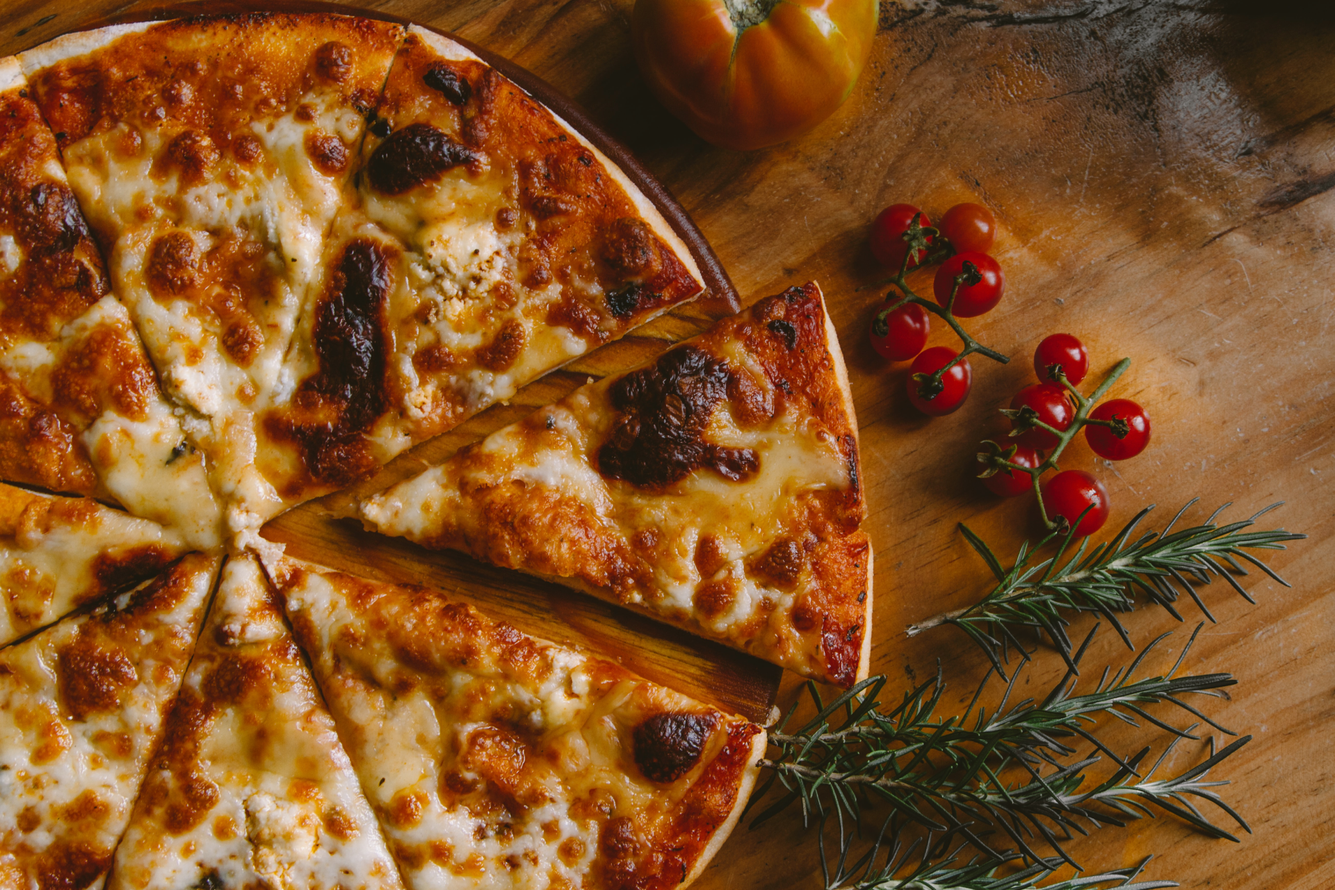
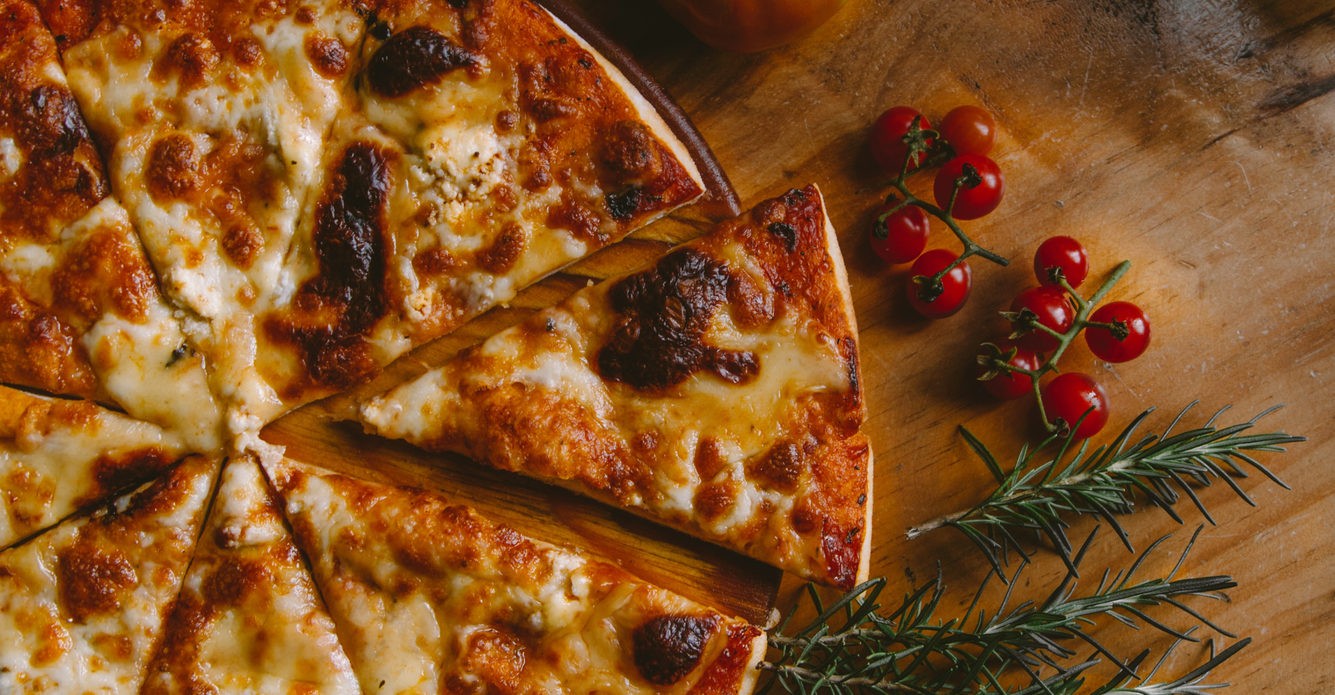
Edit hero image on desktop size

diff --git a/static/css/style.css b/static/css/style.css
@@ -238,6 +238,10 @@ li {
     width: 100%;
 }
 
+.bg-main__desktop {
+    display: none;
+}
+
 .subscribe {
     display: flex;
     flex-direction: column;
@@ -1210,5 +1214,27 @@ li {
     .navbar__link span {
         color: white !important;
     }
+
+    .bg-main {
+        display: none;
+    }
+
+    .bg-main__desktop {
+        display: block;
+        width: 100%;
+        height: calc(100vh - 60px);
+        background-size: cover;
+        background-position: center;
+    }
+
+    .subscribe {
+        top: -100px;
+    }
+
+    .order-now {
+        height: fit-content;
+        margin: auto;
+        position: absolute;
+        top: 0; left: 0; bottom: 0; right: 0;  }
 }
 

diff --git a/home/templates/home/index.html b/home/templates/home/index.html
@@ -2,6 +2,10 @@
 {% load static %}
 {% block content %}
     <img class="bg-main" src="{% static 'images/bg-main-mobile.webp' %}" alt="pizza on wooden table - top perspective">
+    <div class="bg-main__desktop" style="background-image: url(static/images/bg-main-desktop.webp);">
+        <div class="order-now btn">ORDER NOW</div>
+    </div>
+
     {% if user.is_anonymous %}
         <div class="subscribe">
             <p class="subscribe__text">Join us today and get free delivery!</p>
